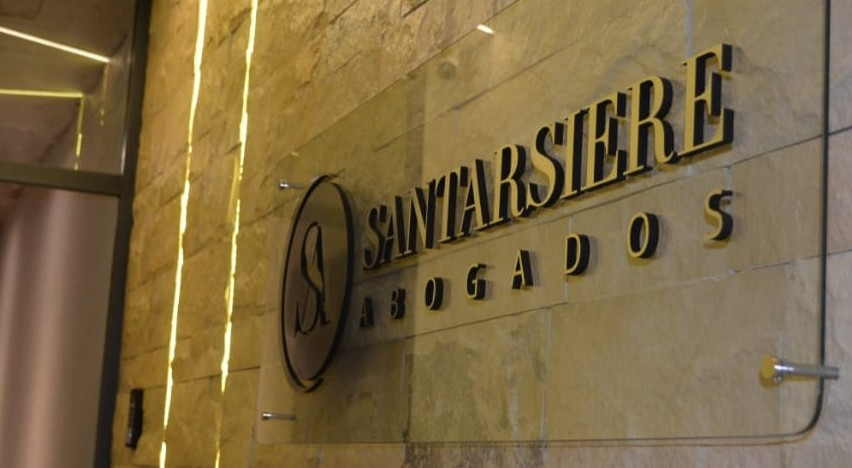
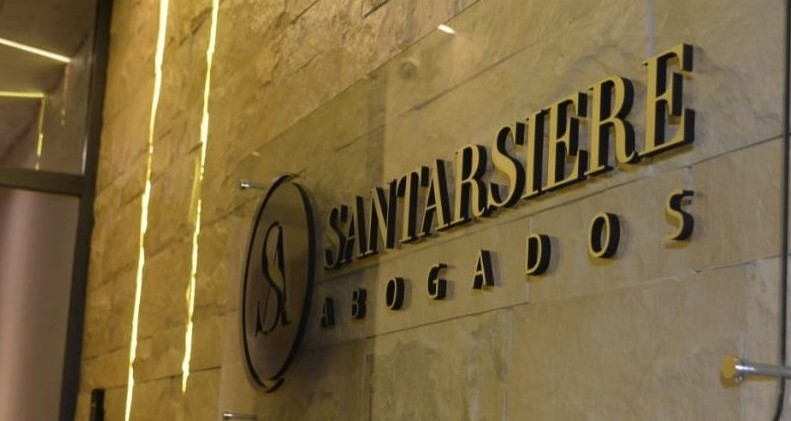
Actualizacion de CSS para algunas paginas

diff --git a/css/main.css b/css/main.css
@@ -21,21 +21,25 @@ main p{
 .portada_index {
     position: relative;
     display: flex; 
+    align-items: center;
     flex-direction: column; /* Alinea los elementos en una columna */
     gap: 15px; /* Espacio entre elementos */
 }
 
 main section img {
+    max-height: 90vh; /* Limita la imagen a la altura de la pantalla */
     width: 99vw;
-    object-fit: cover;
+
+    object-fit: cover; /* Recorta para llenar el contenedor sin deformarse */
+    display: block; 
 }
 
 .container_slogan {
     position: absolute; /* para poner sobre la imagen */
     justify-content: left;
     width: 60%;
-    bottom: 25%; /* separar del borde de abajo de la imagen */
-    left: 20px;
+    bottom: 10%; /* separar del borde de abajo de la imagen */
+    left: 5%;
     color: white
 }
 
@@ -47,6 +51,57 @@ main section img {
 .container_slogan p {
     font-size: 2.5vw;
 }
+
+.container_intro{
+    padding-top: 20px;
+}
+
+.intro {
+    width: 90%;
+    margin: 0 auto; /* Centra el div horizontalmente */
+    display: flex;
+    flex-direction: column; /* Para que quede en columna */
+    justify-content: center; /* Centra horizontalmente */
+    align-items: center; /* Centra verticalmente */
+    text-align: center; /* Centra el texto */
+}
+
+.intro p {
+    text-align: justify; /* Justifica el texto */
+}
+
+.iframe_mapa {
+    position: relative;
+    width: 90%; /* Ancho del contenedor */
+    padding-top: 56.25%; /* Proporción 16:9 (alto/ancho = 450/600) */
+    overflow: hidden;
+    margin: 0 auto; /* Centra el div horizontalmente */
+    display: flex;
+    justify-content: center;
+}
+
+.iframe_mapa iframe {
+    position: absolute;
+    top: 0;
+    left: 0;
+    width: 100%;
+    height: 100%;
+    border: 0;
+
+    justify-content: center;
+    padding: 20px;
+}
+
+
+@media (min-width: 768px){
+    .container_intro{
+        display: grid;
+        grid-template-columns: 1fr 1fr;
+        gap: 5%;
+    }
+}
+
+
 
 
 /* ESTILO PAGINA NUESTRO EQUIPO */
@@ -126,6 +181,7 @@ main section img {
 footer{
     text-align: center;
     background-color: #005eb8;
+    padding: auto;
 }
 
 footer p {
@@ -157,5 +213,8 @@ footer p {
 @media (min-width: 768px) { /* A partir de 768px de ancho */
     .container_logos_footer a span {
         display: inline; /* Muestra el texto */
+    }
+    .container_logos_footer img {
+        max-width: 10%;
     }
 }

diff --git a/index.html b/index.html
@@ -44,17 +44,17 @@
                     <p>Compromiso y excelencia legal a tu servicio.</p>
                 </div>
         </section>
-        <section>
+        <section class="container_intro">
             <!-- Div que contiene parrafo de por que elegir al estudio -->
-            <div>
+            <div class="intro">
                 <h2>¿Por qué elegirnos?</h2>
                 <p>Lorem ipsum dolor sit amet consectetur adipisicing elit. Consequatur, labore ab aliquam, est porro iusto aliquid laudantium voluptatibus placeat quae nesciunt nobis laborum quos eligendi? Aperiam minus earum sapiente quos.</p>
             </div>
     
             <!-- Divisor para incorporar mapa de la ubicacion del estudio y direccion-->
-            <div>
+            <div class="iframe_mapa">
                 <iframe src="https://www.google.com/maps/embed?pb=!1m18!1m12!1m3!1d820.3319809836275!2d-58.72679893040112!3d-34.6716722983081!2m3!1f0!2f0!3f0!3m2!1i1024!2i768!4f13.1!3m3!1m2!1s0x95bcbf3db0724cfd%3A0x84902700bd322e05!2sAbogados%20en%20Merlo%20%7C%20Santarsiere%20Abogados!5e0!3m2!1ses-419!2sar!4v1742697597485!5m2!1ses-419!2sar" 
-                width="600"
+                width="600" 
                 height="450" 
                 style="border:0;" 
                 allowfullscreen="" 
